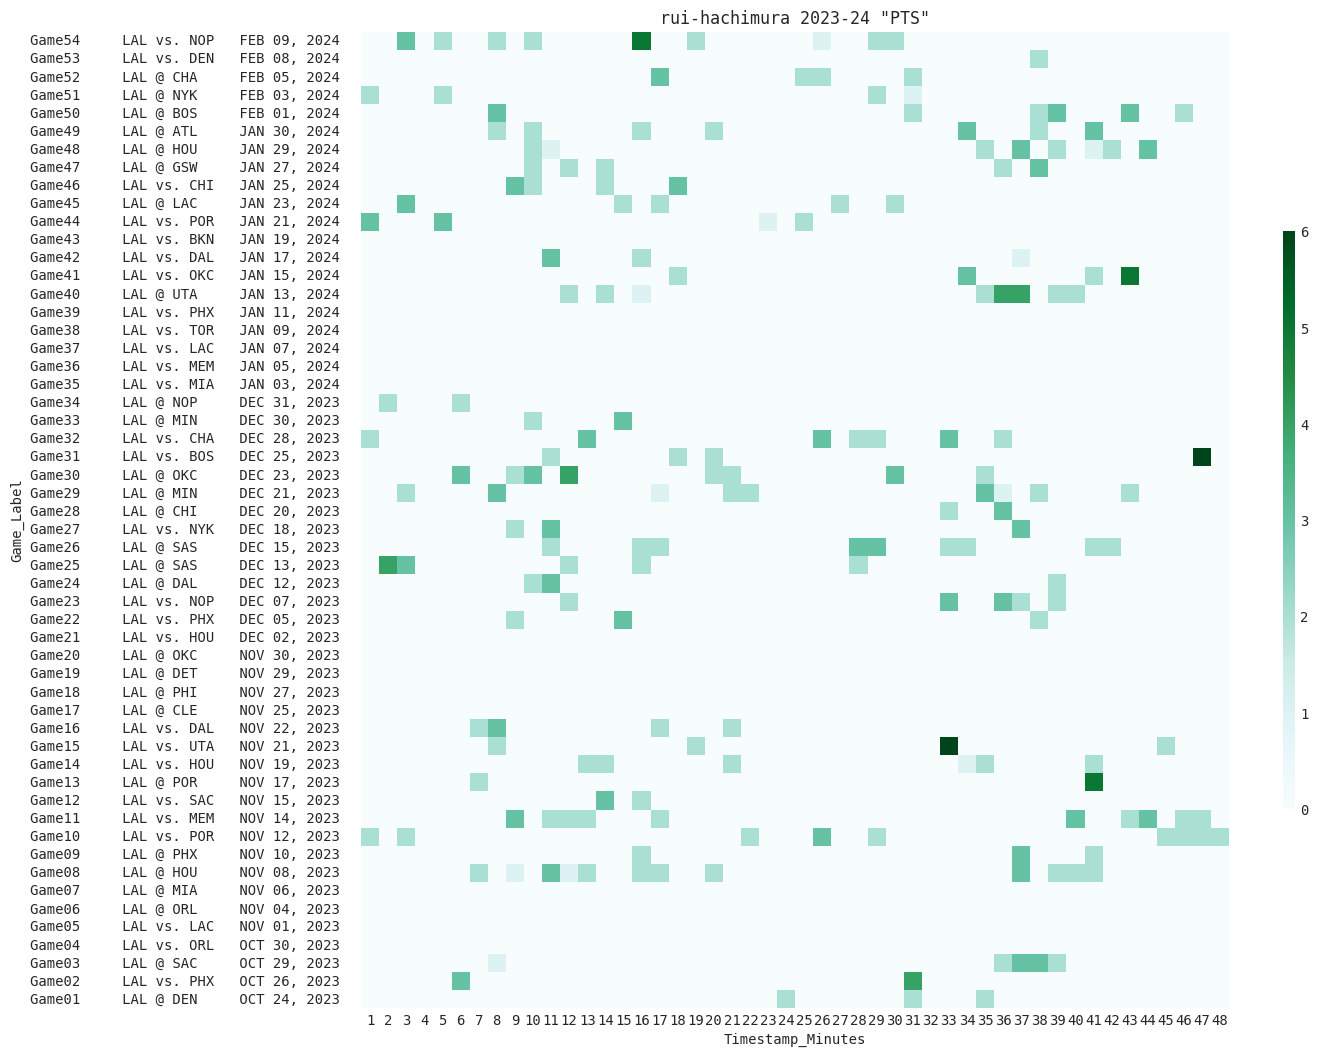
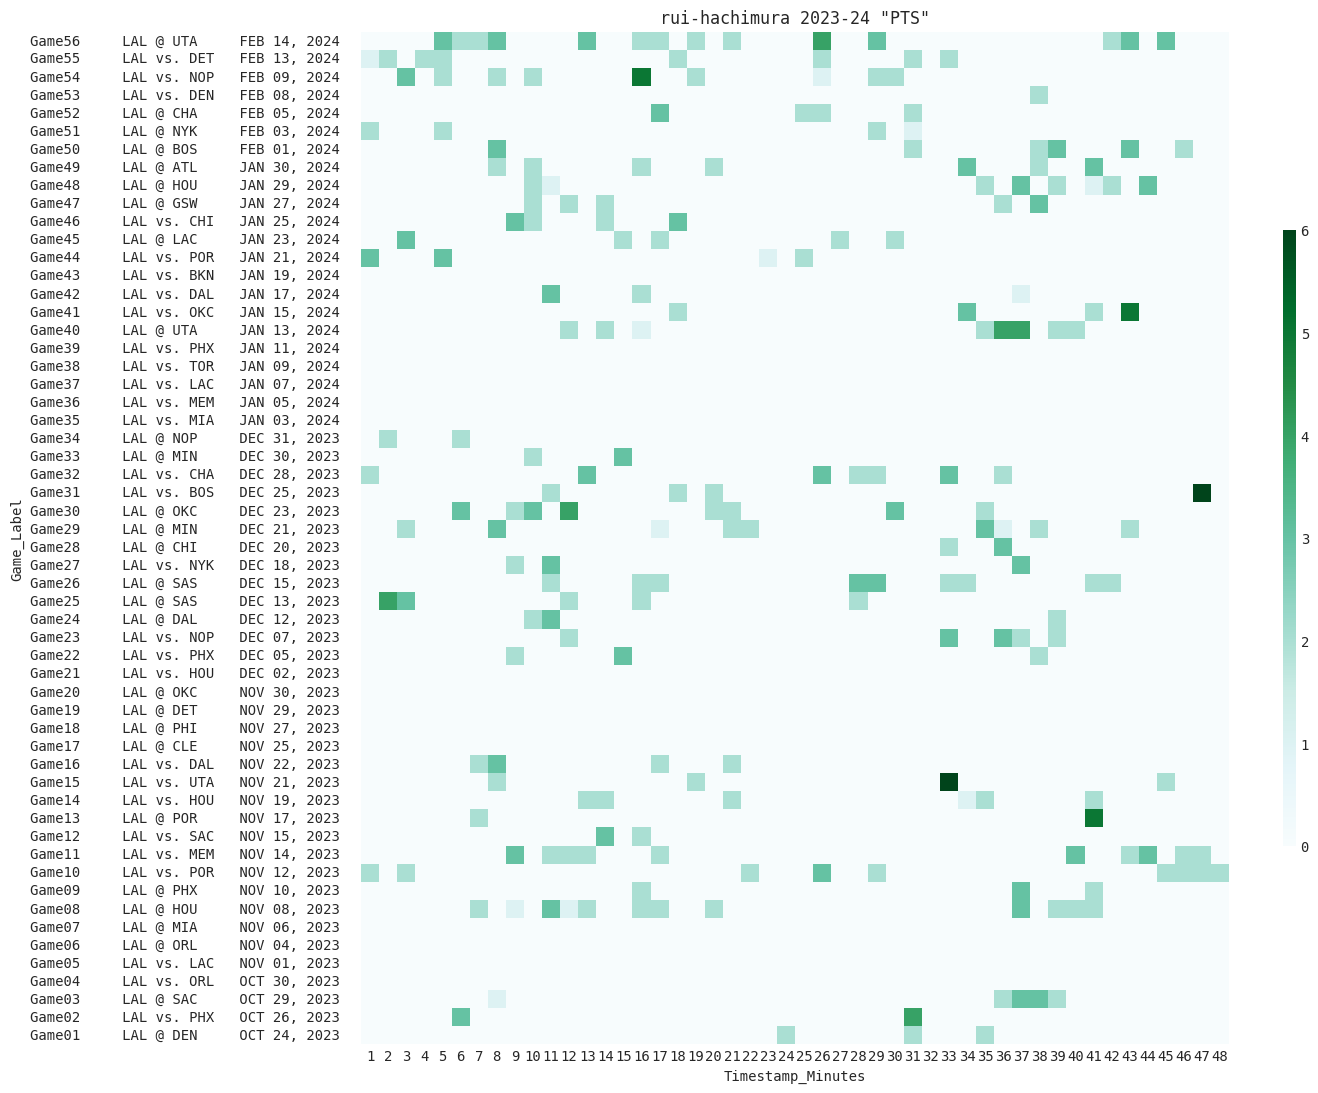
Update the stats till the All star week.

diff --git a/2023-24.md b/2023-24.md
@@ -1,5 +1,5 @@
 ## 活躍状況 2023-24 シーズン
-> Last Update: 2024-02-10 15:22:30
+> Last Update: 2024-02-16 18:13:10
 - (注)オーバータイム時の情報は対象外です。
 
 ### 渡邊雄太 Yuta Watanabe
